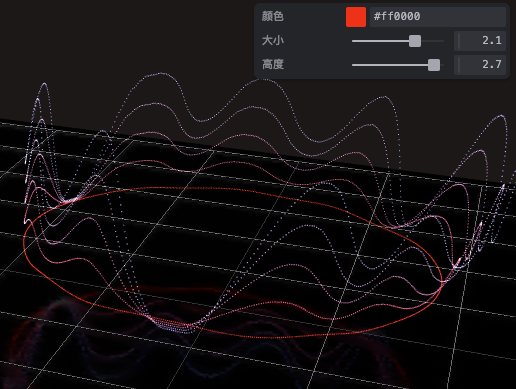
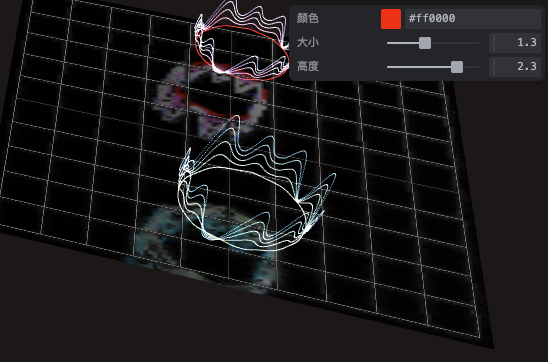
no message

diff --git a/src/plugins/floor/pages/lineMagicZone.vue b/src/plugins/floor/pages/lineMagicZone.vue
@@ -4,7 +4,7 @@
  * @Autor: 地虎降天龙
  * @Date: 2024-06-06 15:51:13
  * @LastEditors: 地虎降天龙
- * @LastEditTime: 2024-12-24 16:40:06
+ * @LastEditTime: 2024-12-24 16:58:26
 -->
 <template>
     <TresCanvas clearColor="#201919" window-size antialias alpha logarithmicDepthBuffer>
@@ -13,7 +13,10 @@
         <TresAmbientLight :intensity="2" />
 
         <Suspense>
-            <lineMagicZone :position="[0, 0, 0]" v-bind="configState" />
+            <lineMagicZone :position="[3, 0, 0]" v-bind="configState" />
+        </Suspense>
+        <Suspense>
+            <lineMagicZone :position="[-3, 0, 0]" :scale="1.6" :height="3.0" />
         </Suspense>
 
         <Suspense>
